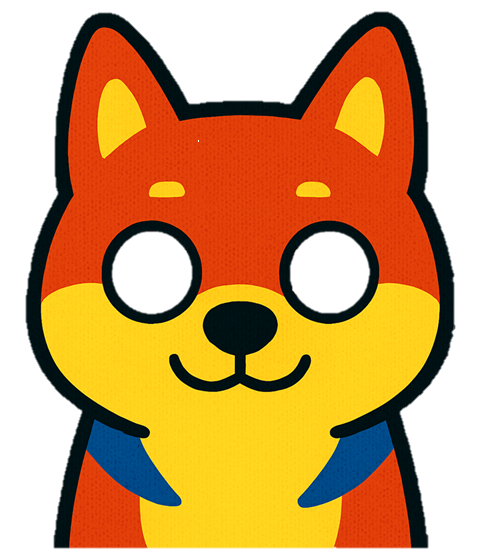
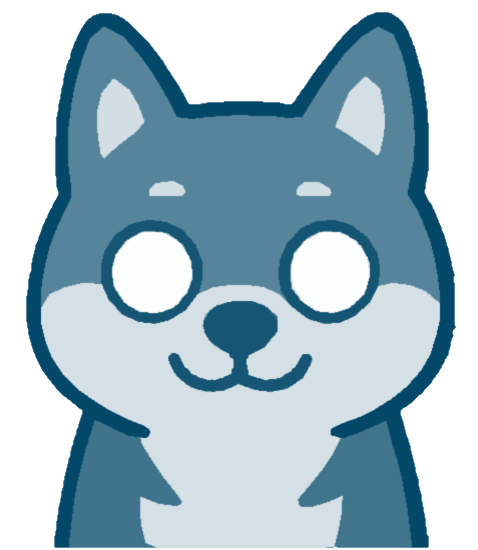
가독성과 유지보수성을 높이기 위한 코드 구조 리팩토링 + 3D 형상 2D 이미지 추가 및 로고 생성 및 마스코트 수정

diff --git a/nodejs/AssignmentProject/public/login.html b/nodejs/AssignmentProject/public/login.html
@@ -54,8 +54,14 @@
     body {
       cursor: url('butterfly-cursor.png'), auto;
     }
-    nav{
+
+    nav {
       box-shadow: 0 4px 4px rgba(0, 0, 0, 0.528);
+    }
+    .glass{
+      position: absolute;
+      z-index: 0;
+      width: 600px;
     }
   </style>
 </head>
@@ -63,51 +69,56 @@
 <body>
   <nav class="navbar navbar-expand-lg bg-body-tertiary text-bg-primary p-3">
     <div class="container-fluid">
-      <a class="navbar-brand" href="#">Navbar</a>
-      <button class="navbar-toggler" type="button" data-bs-toggle="collapse" data-bs-target="#navbarSupportedContent"
-        aria-controls="navbarSupportedContent" aria-expanded="false" aria-label="Toggle navigation">
-        <span class="navbar-toggler-icon"></span>
-      </button>
-      <div class="collapse navbar-collapse" id="navbarSupportedContent">
-        <ul class="navbar-nav me-auto mb-2 mb-lg-0">
-          <li class="nav-item">
-            <a class="nav-link active" aria-current="page" href="#">Home</a>
+      <img src="/logo.png" alt="Logo" width="200" class="d-inline-block align-text-top">
+      TikTak Talk <button class="navbar-toggler" type="button" data-bs-toggle="collapse"
+      data-bs-target="#navbarSupportedContent" aria-controls="navbarSupportedContent" aria-expanded="false"
+      aria-label="Toggle navigation">
+      <span class="navbar-toggler-icon"></span>
+    </button>
+    <div class="collapse navbar-collapse" id="navbarSupportedContent">
+      <ul class="navbar-nav me-auto mb-2 mb-lg-0">
+        <li class="nav-item">
+          <a class="nav-link active" aria-current="page" href="#">Home</a>
+        </li>
+        <li class="nav-item">
+          <a class="nav-link" href="#">Link</a>
+        </li>
+        <li class="nav-item dropdown">
+          <a class="nav-link dropdown-toggle show" href="#" role="button" data-bs-toggle="dropdown"
+          aria-expanded="true">
+          Dropdown
+        </a>
+        <ul class="dropdown-menu show" data-bs-popper="static">
+          <li><a class="dropdown-item" href="#">Action</a></li>
+          <li><a class="dropdown-item" href="#">Another action</a></li>
+          <li>
+            <hr class="dropdown-divider">
           </li>
-          <li class="nav-item">
-            <a class="nav-link" href="#">Link</a>
-          </li>
-          <li class="nav-item dropdown">
-            <a class="nav-link dropdown-toggle show" href="#" role="button" data-bs-toggle="dropdown"
-              aria-expanded="true">
-              Dropdown
-            </a>
-            <ul class="dropdown-menu show" data-bs-popper="static">
-              <li><a class="dropdown-item" href="#">Action</a></li>
-              <li><a class="dropdown-item" href="#">Another action</a></li>
-              <li>
-                <hr class="dropdown-divider">
-              </li>
-              <li><a class="dropdown-item" href="#">Something else here</a></li>
-            </ul>
-          </li>
-          <li class="nav-item">
-            <a class="nav-link disabled" aria-disabled="true">Disabled</a>
-          </li>
+          <li><a class="dropdown-item" href="#">Something else here</a></li>
         </ul>
-        <form class="d-flex" role="search">
-          <input class="form-control me-2" type="search" placeholder="Search" aria-label="Search">
-          <button class="btn btn-outline-success" type="submit">Search</button>
-        </form>
-      </div>
-    </div>
-  </nav>
-  <button class="btn btn-primary" type="button" data-bs-toggle="offcanvas" data-bs-target="#offcanvasBottom"
-    aria-controls="offcanvasBottom">Toggle bottom offcanvas</button>
+      </li>
+      <li class="nav-item">
+        <a class="nav-link disabled" aria-disabled="true">Disabled</a>
+      </li>
+    </ul>
+    <form class="d-flex" role="search">
+      <input class="form-control me-2" type="search" placeholder="Search" aria-label="Search">
+      <button class="btn btn-outline-success" type="submit">Search</button>
+    </form>
+  </div>
+</div>
+</nav>
+<div class="row row-cols-2">
+  <img src="GlassO.png" alt="GlassO" class="glass">
+  <img src="GlassX.png" alt="GlassX" class="glass">
+</div>
+<button class="btn btn-primary" type="button" data-bs-toggle="offcanvas" data-bs-target="#offcanvasBottom"
+aria-controls="offcanvasBottom">Toggle bottom offcanvas</button>
 
-  <div class="offcanvas offcanvas-bottom" tabindex="-1" id="offcanvasBottom" aria-labelledby="offcanvasBottomLabel">
-    <div class="offcanvas-header">
-      <h5 class="offcanvas-title" id="offcanvasBottomLabel">Offcanvas bottom</h5>
-      <button type="button" class="btn-close" data-bs-dismiss="offcanvas" aria-label="Close"></button>
+<div class="offcanvas offcanvas-bottom" tabindex="-1" id="offcanvasBottom" aria-labelledby="offcanvasBottomLabel">
+  <div class="offcanvas-header">
+    <h5 class="offcanvas-title" id="offcanvasBottomLabel">Offcanvas bottom</h5>
+    <button type="button" class="btn-close" data-bs-dismiss="offcanvas" aria-label="Close"></button>
     </div>
     <div class="offcanvas-body small">
       ...
@@ -124,7 +135,7 @@
   </div>
   <form class="row row-cols-1 row-cols-md-4 g-5 justify-content-center mid" action="/main" method="get">
     <div class="card text-center align-items-center">
-      <p id="logbanner" class="form-control mb-5 rounded-top-0 ">방문을 환영합니다</p>
+      <img src="/logo.png" alt="Logo" width="200" class="d-inline-block align-text-top">
       <label for="username">
         <input class="text rounded-pill border-1 form-control mb-3" id="username" name="username" placeholder="아이디">
       </label>
@@ -147,8 +158,8 @@
       let deltaX = (e.clientX - centerX) * 0.1;
       let deltaY = (e.clientY - centerY) * 0.09;
       let max = 1.5;
-      let x = Math.max(-max-2, Math.min(max, deltaX)+2);
-      let y = Math.max(-max+5, Math.min(max, deltaY) + 9);
+      let x = Math.max(-max - 2, Math.min(max, deltaX) + 2);
+      let y = Math.max(-max + 5, Math.min(max, deltaY) + 9);
       eye.style.transform = `translate(${x}px, ${y}px)`;
     });
     function d_move(X, Y) {
@@ -161,6 +172,9 @@
       d_move(mX, mY);
     });
   </script>
+  <footer class="text-center ">
+    © 2025 made by Rho
+  </footer>
 </body>
 
 </html>
